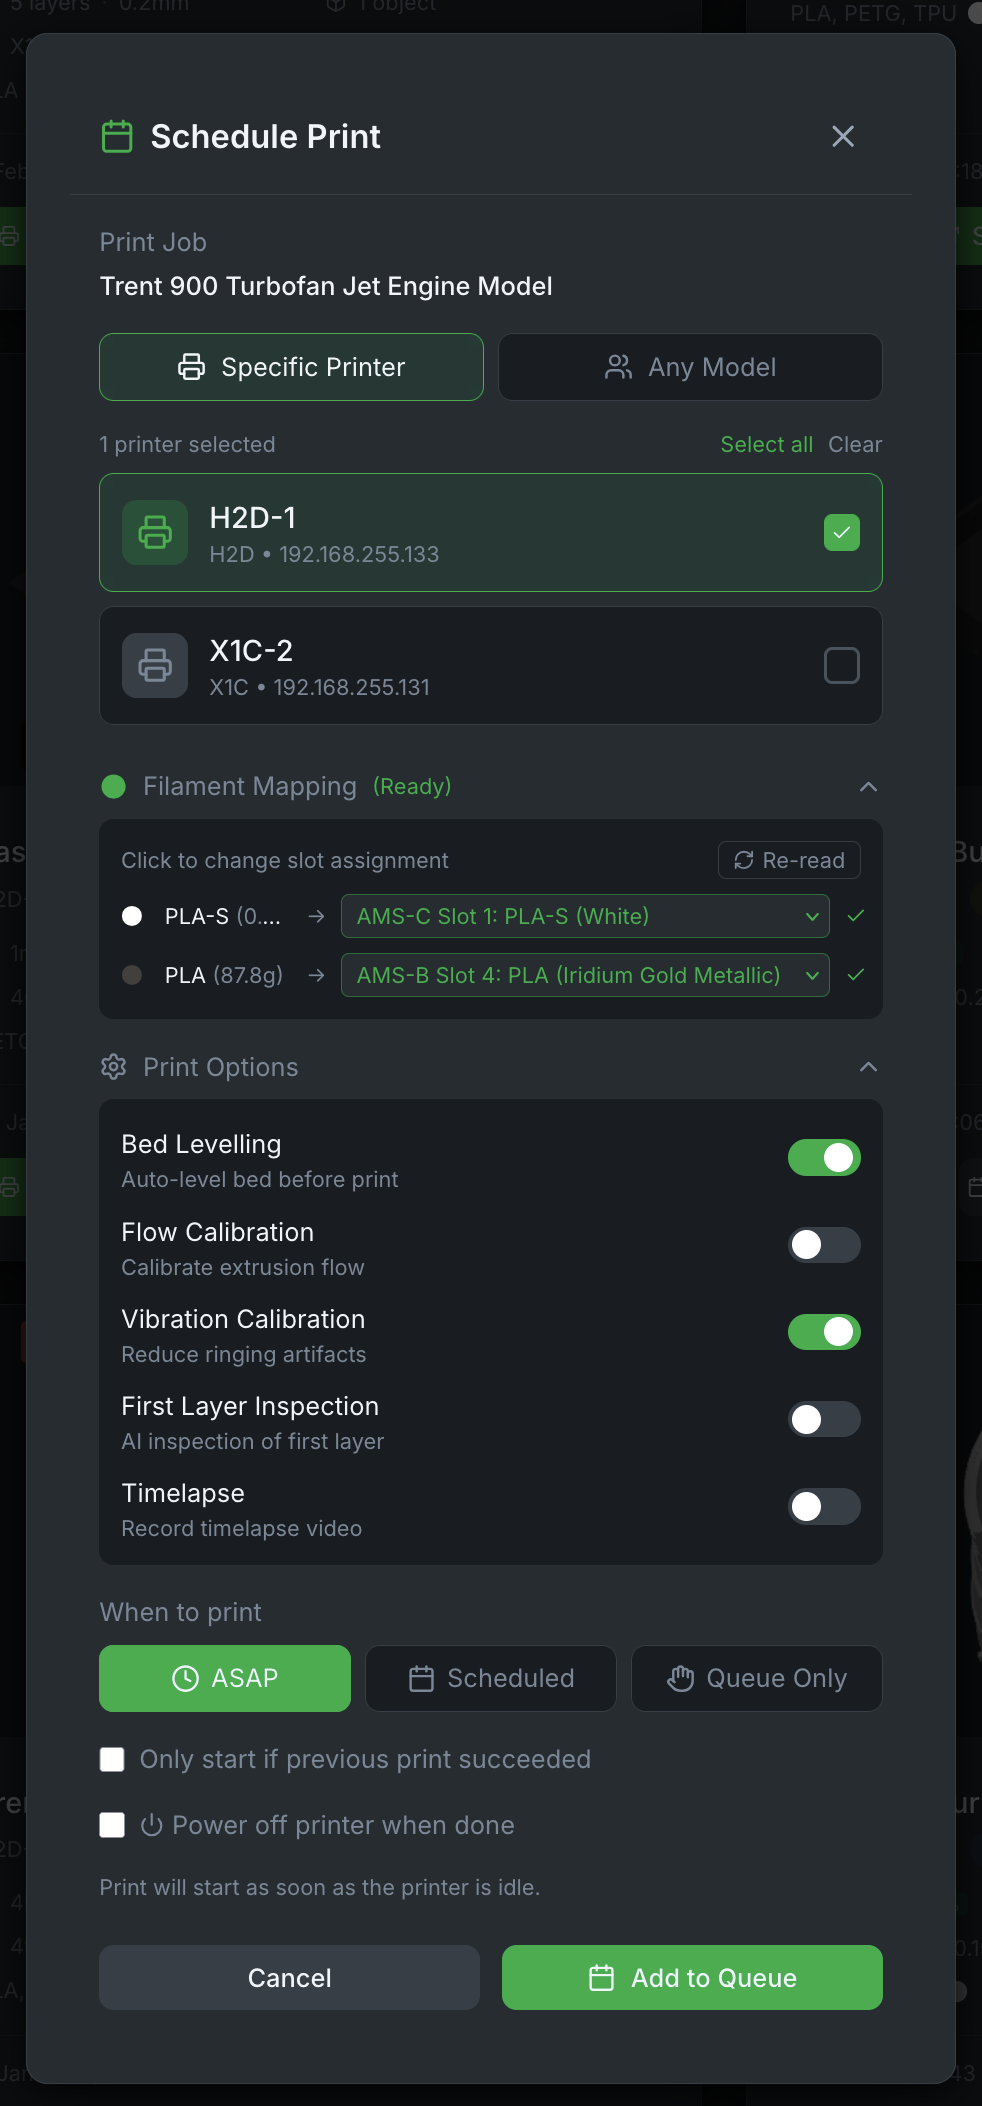
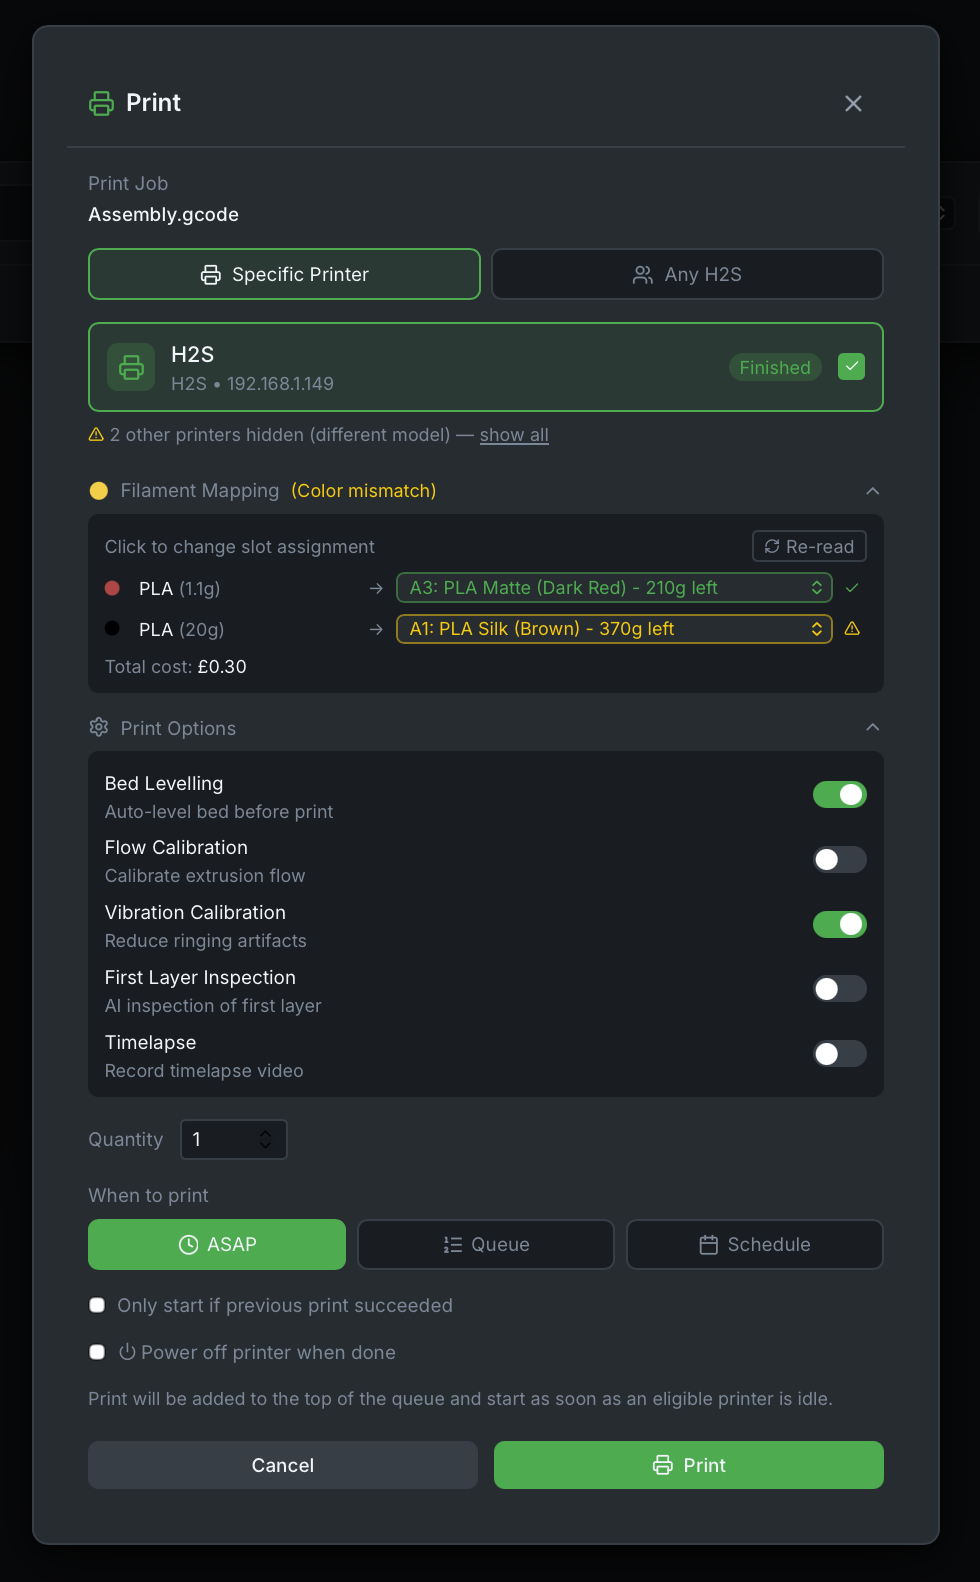
Update screenshots and improve documentation for print features

diff --git a/features.html b/features.html
@@ -353,15 +353,15 @@
           <li>
             <svg viewBox="0 0 24 24" fill="none" stroke="currentColor" stroke-width="2"><polyline points="20 6 9 17 4 12"/></svg>
             <div>
-              <strong>Re-print with AMS Mapping & Print Options</strong>
-              <p style="color: var(--text-muted); font-size: 0.875rem; margin-top: 4px;">Send any archived print to any printer. For multi-plate 3MF files, select which plate to print with thumbnail previews. Auto-matches filaments by type and color, or manually select AMS slots from dropdown. On dual-nozzle printers (H2D/H2D Pro), filament matching is nozzle-aware — only AMS trays connected to the correct nozzle (L/R) are considered. Color names decoded from Bambu filament codes. Re-read button refreshes AMS status. Configure print options (bed leveling, flow calibration, vibration calibration, first layer inspection, timelapse) before starting.</p>
+              <strong>Print with AMS Mapping & Print Options</strong>
+              <p style="color: var(--text-muted); font-size: 0.875rem; margin-top: 4px;">Send any archived print to any printer from the unified Print dialog. For multi-plate 3MF files, select which plate to print with thumbnail previews. Auto-matches filaments by type and color, or manually select AMS slots from dropdown. On dual-nozzle printers (H2D/H2D Pro), filament matching is nozzle-aware — only AMS trays connected to the correct nozzle (L/R) are considered. Color names decoded from Bambu filament codes. Re-read button refreshes AMS status. Configure print options (bed leveling, flow calibration, vibration calibration, first layer inspection, timelapse) before dispatch.</p>
             </div>
           </li>
           <li>
             <svg viewBox="0 0 24 24" fill="none" stroke="currentColor" stroke-width="2"><polyline points="20 6 9 17 4 12"/></svg>
             <div>
-              <strong>Quick Schedule Button</strong>
-              <p style="color: var(--text-muted); font-size: 0.875rem; margin-top: 4px;">Schedule button on archive cards for quick access to print queue. Add prints to the queue without right-clicking—respects user permissions.</p>
+              <strong>Unified Print Button</strong>
+              <p style="color: var(--text-muted); font-size: 0.875rem; margin-top: 4px;">Print button on archive cards opens the shared Print dialog for ASAP, Queue, or Schedule dispatch. Add prints to the scheduler-backed queue without right-clicking—respects user permissions.</p>
             </div>
           </li>
           <li>
@@ -409,7 +409,7 @@
         </ul>
         <div class="feature-screenshot reveal" style="display: flex; gap: 1rem; flex-wrap: wrap;">
           <img src="assets/screenshots/archives.png" alt="Bambuddy Archives - Print management interface with 3D preview" loading="lazy" style="flex: 1; min-width: 300px;">
-          <img src="assets/screenshots/reprint_ams_mapping.png" alt="Bambuddy Re-print - Filament mapping and print options" loading="lazy" style="flex: 1; min-width: 300px;">
+          <img src="assets/screenshots/reprint_ams_mapping.png" alt="Bambuddy Print - Filament mapping and print options" loading="lazy" style="flex: 1; min-width: 300px;">
         </div>
       </div>
     </div>
@@ -633,14 +633,14 @@
             <svg viewBox="0 0 24 24" fill="none" stroke="currentColor" stroke-width="2"><polyline points="20 6 9 17 4 12"/></svg>
             <div>
               <strong>Time-Based Scheduling</strong>
-              <p style="color: var(--text-muted); font-size: 0.875rem; margin-top: 4px;">Schedule prints to start at specific times, like overnight or off-peak hours.</p>
+              <p style="color: var(--text-muted); font-size: 0.875rem; margin-top: 4px;">Schedule prints with a "do not start before" time, like overnight or off-peak hours. If the printer is busy at the scheduled time, the job stays queued until it can be dispatched.</p>
             </div>
           </li>
           <li>
             <svg viewBox="0 0 24 24" fill="none" stroke="currentColor" stroke-width="2"><polyline points="20 6 9 17 4 12"/></svg>
             <div>
-              <strong>Queue Only Mode</strong>
-              <p style="color: var(--text-muted); font-size: 0.875rem; margin-top: 4px;">Stage prints without auto-start. Prepare batches and release them manually when ready.</p>
+              <strong>Queue Mode</strong>
+              <p style="color: var(--text-muted); font-size: 0.875rem; margin-top: 4px;">Append prints to the back of the queue, or require manual start when you want to stage batches and release them yourself.</p>
             </div>
           </li>
           <li>
@@ -668,7 +668,7 @@
             <svg viewBox="0 0 24 24" fill="none" stroke="currentColor" stroke-width="2"><polyline points="20 6 9 17 4 12"/></svg>
             <div>
               <strong>Batch Print Quantity</strong>
-              <p style="color: var(--text-muted); font-size: 0.875rem; margin-top: 4px;">Set a quantity in the Print or Schedule dialog to create multiple queue items at once. In direct print mode, the first copy prints immediately and the rest are queued. Items are grouped into a batch for easy tracking.</p>
+              <p style="color: var(--text-muted); font-size: 0.875rem; margin-top: 4px;">Set a quantity in the Print dialog to create multiple queue items at once. ASAP batches are inserted at the top of the queue, while Queue batches append to the back unless manual start is required. Items are grouped into a batch for easy tracking.</p>
             </div>
           </li>
           <li>
@@ -730,7 +730,7 @@
         </ul>
         <div class="feature-screenshot reveal" style="display: flex; gap: 1rem; flex-wrap: wrap;">
           <img src="assets/screenshots/print-queue.png" alt="Bambuddy Queue - Drag-and-drop print queue management" loading="lazy" style="flex: 2; min-width: 300px;">
-          <img src="assets/screenshots/schedule-print.png" alt="Bambuddy Schedule Print - Filament mapping and print options" loading="lazy" style="flex: 1; min-width: 250px; max-width: 400px;">
+          <img src="assets/screenshots/schedule-print.png" alt="Bambuddy Print - Queue and schedule options" loading="lazy" style="flex: 1; min-width: 250px; max-width: 400px;">
         </div>
       </div>
     </div>
@@ -924,7 +924,7 @@
             <svg viewBox="0 0 24 24" fill="none" stroke="currentColor" stroke-width="2"><polyline points="20 6 9 17 4 12"/></svg>
             <div>
               <strong>Print Files from Project View</strong>
-              <p style="color: var(--text-muted); font-size: 0.875rem; margin-top: 4px;">Printable files from linked library folders appear directly on the project detail page with Print Now and Add to Queue buttons. The resulting archive is automatically linked to the project — no manual assignment needed.</p>
+              <p style="color: var(--text-muted); font-size: 0.875rem; margin-top: 4px;">Printable files from linked library folders appear directly on the project detail page with a Print button. The resulting queue item and archive are automatically linked to the project — no manual assignment needed.</p>
             </div>
           </li>
           <li>
@@ -2214,15 +2214,15 @@
           <li>
             <svg viewBox="0 0 24 24" fill="none" stroke="currentColor" stroke-width="2"><polyline points="20 6 9 17 4 12"/></svg>
             <div>
-              <strong>Print Directly</strong>
-              <p style="color: var(--text-muted); font-size: 0.875rem; margin-top: 4px;">Print library files with full options: plate selection for multi-plate 3MF, AMS mapping, and all print settings.</p>
+              <strong>Unified Print Action</strong>
+              <p style="color: var(--text-muted); font-size: 0.875rem; margin-top: 4px;">Print library files through the shared Print dialog with full options: plate selection for multi-plate 3MF, AMS mapping, scheduler timing, and all print settings.</p>
             </div>
           </li>
           <li>
             <svg viewBox="0 0 24 24" fill="none" stroke="currentColor" stroke-width="2"><polyline points="20 6 9 17 4 12"/></svg>
             <div>
-              <strong>Add to Queue</strong>
-              <p style="color: var(--text-muted); font-size: 0.875rem; margin-top: 4px;">Queue files without creating archives upfront—archives are created automatically when prints start.</p>
+              <strong>Queue-Backed Dispatch</strong>
+              <p style="color: var(--text-muted); font-size: 0.875rem; margin-top: 4px;">All file prints go through the scheduler-backed queue. Archives are created automatically when prints start, so library files do not need archive copies upfront.</p>
             </div>
           </li>
           <li>

diff --git a/docs.html b/docs.html
@@ -373,12 +373,12 @@ Headers: {"Content-Type": "text/plain"}</code></pre>
                     <td>List archived prints</td>
                   </tr>
                   <tr>
-                    <td><code>/api/prints/{id}/reprint</code></td>
+                    <td><code>/api/v1/queue/</code></td>
                     <td>POST</td>
-                    <td>Send print to a printer</td>
+                    <td>Create a print queue item for ASAP, queue, or scheduled dispatch</td>
                   </tr>
                   <tr>
-                    <td><code>/api/queue</code></td>
+                    <td><code>/api/v1/queue/</code></td>
                     <td>GET</td>
                     <td>View print queue</td>
                   </tr>

diff --git a/comparison.html b/comparison.html
@@ -390,7 +390,7 @@
               <td><span class="cell-partial">~</span> Via plugins</td>
             </tr>
             <tr>
-              <td>Re-print with AMS mapping</td>
+              <td>Print with AMS mapping</td>
               <td class="col-highlight"><span class="cell-yes" aria-label="Yes">&#10003;</span></td>
               <td><span class="cell-no" aria-label="No">&#10007;</span></td>
               <td><span class="cell-no" aria-label="No">&#10007;</span></td>

diff --git a/index.html b/index.html
@@ -266,7 +266,7 @@
             <span>Opt-in &mdash; existing desktop-slicer flow stays unchanged</span>
           </div>
         </div>
-        <p class="highlight-usecase">Closes the workflow gap that kept users on a desktop machine just to slice a quick re-print.</p>
+        <p class="highlight-usecase">Closes the workflow gap that kept users on a desktop machine just to slice a quick repeat print.</p>
         <a href="http://wiki.bambuddy.cool/features/slicer-api/" class="btn btn-primary" target="_blank" rel="noopener">
           Setup Guide
           <svg viewBox="0 0 24 24" fill="none" stroke="currentColor" stroke-width="2" width="20" height="20">